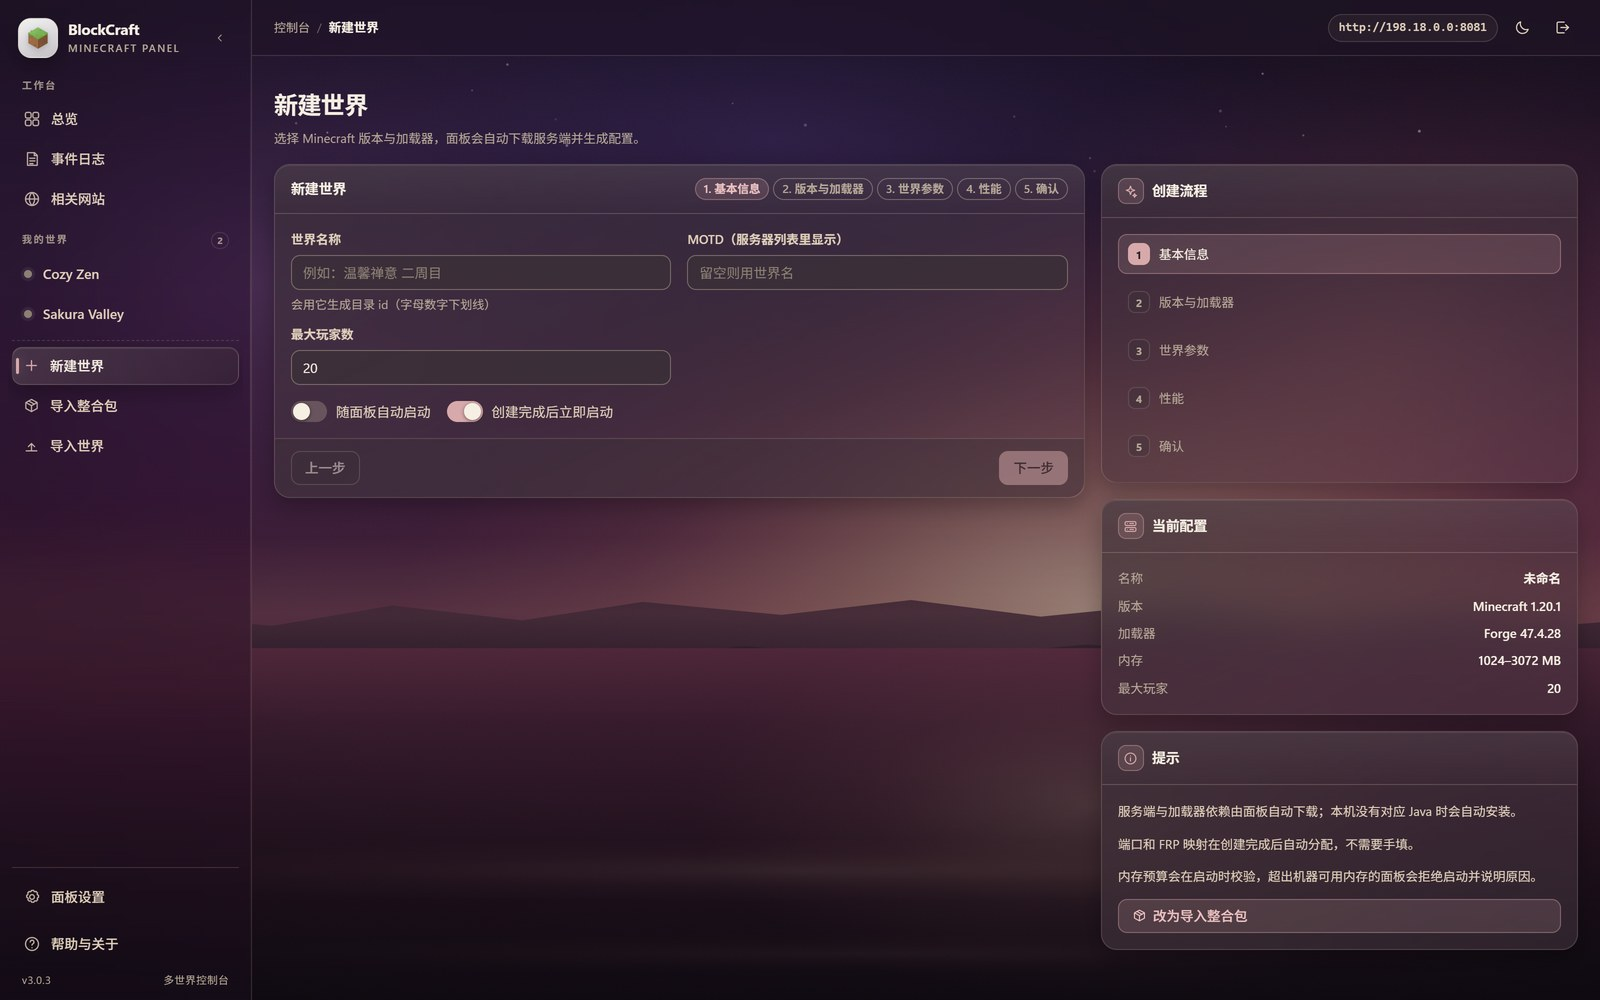
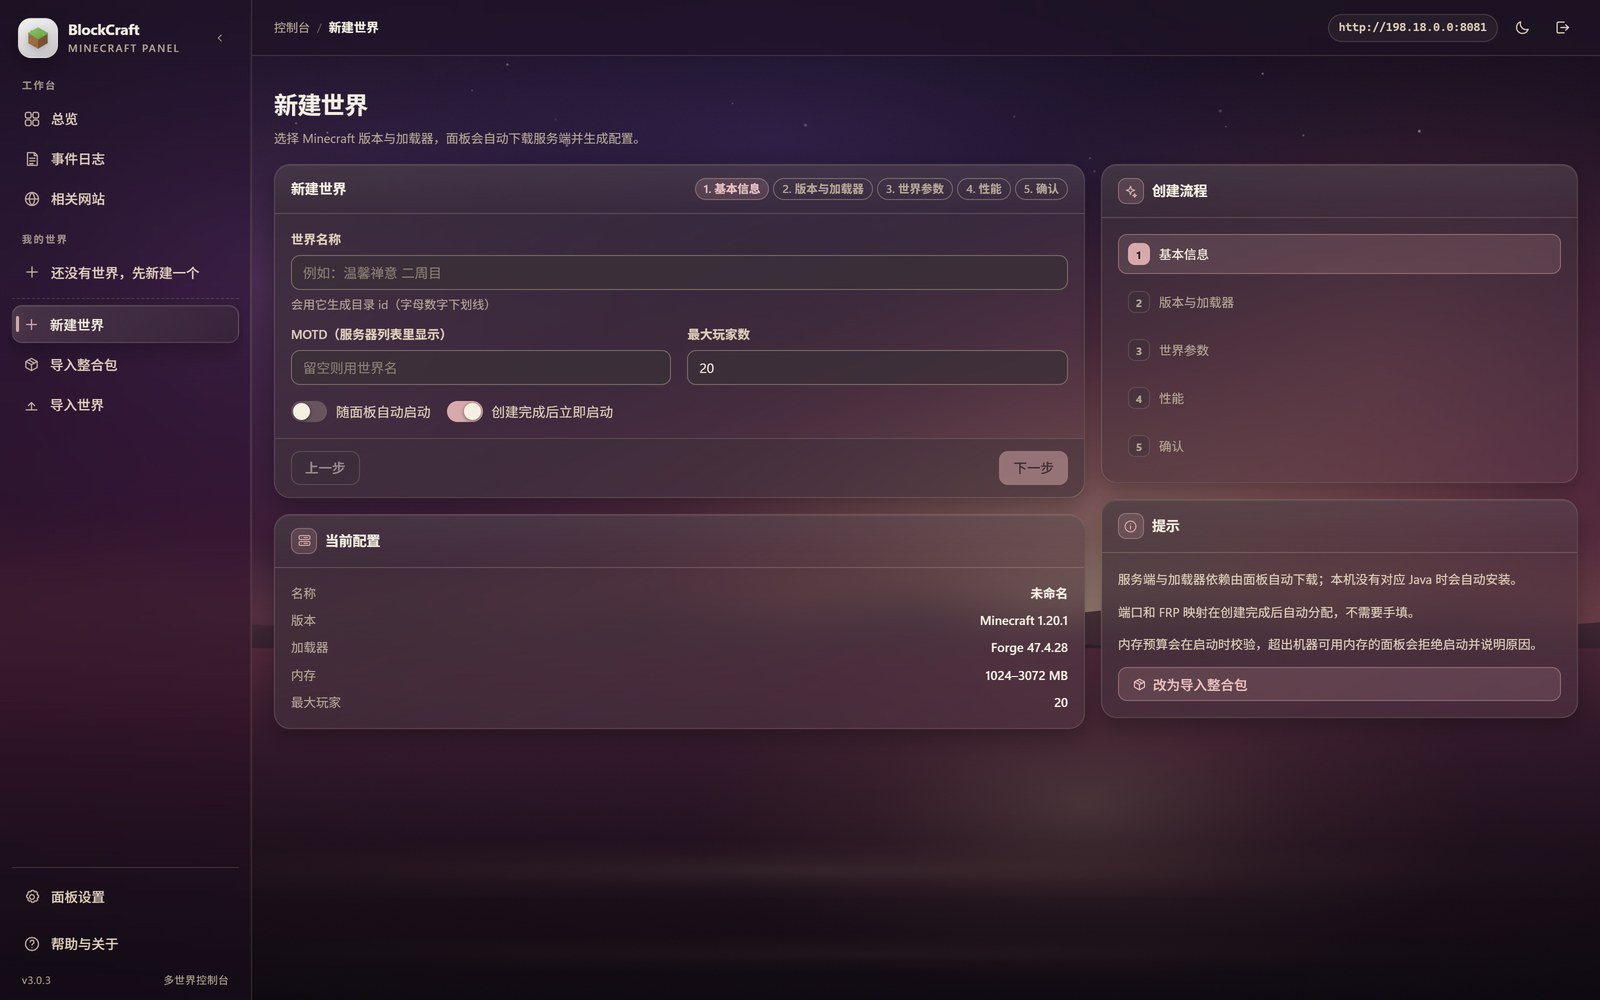
fix(web): balance the new-world wizard layout
- Make the world name span the full form row; pair MOTD and max players below it instead of leaving max players alone.

- Move the 当前配置 summary under the form so the left and right columns end at roughly the same height; the right rail now holds the step guide and tips.

- Refresh the create/import screenshots and changelog.

diff --git a/web/src/pages/Wizard.vue b/web/src/pages/Wizard.vue
@@ -302,7 +302,7 @@ function backgroundJob() {
         <!-- 1 基本 -->
         <template v-if="step === 1">
           <div class="form-grid-2">
-            <div class="field">
+            <div class="field" style="grid-column: 1 / -1">
               <label class="field-label">世界名称</label>
               <input v-model="form.name" class="input" placeholder="例如：温馨禅意 二周目" />
               <span class="field-hint">会用它生成目录 id（字母数字下划线）</span>
@@ -582,6 +582,27 @@ function backgroundJob() {
       </div>
     </div>
 
+        <section class="card wizard-summary-card">
+          <div class="card-head">
+            <h3><span class="head-icon"><Icon name="server" :size="15" /></span>当前配置</h3>
+          </div>
+          <div class="card-body col gap-2">
+            <template v-if="mode === 'new'">
+              <div class="aside-kv"><span>名称</span><strong>{{ form.name || '未命名' }}</strong></div>
+              <div class="aside-kv"><span>版本</span><strong>Minecraft {{ form.mc }}</strong></div>
+              <div class="aside-kv"><span>加载器</span><strong>{{ currentLoader?.label ?? form.loader }} <template v-if="form.loaderVersion">{{ form.loaderVersion }}</template></strong></div>
+              <div class="aside-kv"><span>内存</span><strong>{{ form.minMemoryMb }}–{{ form.memoryMb }} MB</strong></div>
+              <div class="aside-kv"><span>最大玩家</span><strong>{{ form.maxPlayers }}</strong></div>
+            </template>
+            <template v-else>
+              <div class="aside-kv"><span>整合包</span><strong class="mono">{{ importForm.packId || '未选择' }}</strong></div>
+              <div class="aside-kv"><span>名称</span><strong>{{ importForm.name || '未命名' }}</strong></div>
+              <div class="aside-kv"><span>版本</span><strong>{{ importForm.mc || '未识别' }}</strong></div>
+              <div class="aside-kv"><span>加载器</span><strong>{{ importForm.loader }} <template v-if="importForm.loaderVersion">{{ importForm.loaderVersion }}</template></strong></div>
+              <div class="aside-kv"><span>内存</span><strong>{{ importForm.memoryMb }} MB</strong></div>
+            </template>
+          </div>
+        </section>
       </div>
 
       <aside class="wizard-aside col gap-4">
@@ -616,28 +637,6 @@ function backgroundJob() {
                 <span class="aside-step-index">3</span>
                 <span class="grow">开始导入并等待任务</span>
               </div>
-            </template>
-          </div>
-        </section>
-
-        <section class="card aside-card">
-          <div class="card-head">
-            <h3><span class="head-icon"><Icon name="server" :size="15" /></span>当前配置</h3>
-          </div>
-          <div class="card-body col gap-2">
-            <template v-if="mode === 'new'">
-              <div class="aside-kv"><span>名称</span><strong>{{ form.name || '未命名' }}</strong></div>
-              <div class="aside-kv"><span>版本</span><strong>Minecraft {{ form.mc }}</strong></div>
-              <div class="aside-kv"><span>加载器</span><strong>{{ currentLoader?.label ?? form.loader }} <template v-if="form.loaderVersion">{{ form.loaderVersion }}</template></strong></div>
-              <div class="aside-kv"><span>内存</span><strong>{{ form.minMemoryMb }}–{{ form.memoryMb }} MB</strong></div>
-              <div class="aside-kv"><span>最大玩家</span><strong>{{ form.maxPlayers }}</strong></div>
-            </template>
-            <template v-else>
-              <div class="aside-kv"><span>整合包</span><strong class="mono">{{ importForm.packId || '未选择' }}</strong></div>
-              <div class="aside-kv"><span>名称</span><strong>{{ importForm.name || '未命名' }}</strong></div>
-              <div class="aside-kv"><span>版本</span><strong>{{ importForm.mc || '未识别' }}</strong></div>
-              <div class="aside-kv"><span>加载器</span><strong>{{ importForm.loader }} <template v-if="importForm.loaderVersion">{{ importForm.loaderVersion }}</template></strong></div>
-              <div class="aside-kv"><span>内存</span><strong>{{ importForm.memoryMb }} MB</strong></div>
             </template>
           </div>
         </section>

diff --git a/CHANGELOG.md b/CHANGELOG.md
@@ -4,6 +4,7 @@
 
 - 设置新增 Java 下载源：Adoptium 官方、清华 TUNA、南京大学、自定义 Adoptium 镜像；按镜像目录自动选择最新安装包，不可用时回退官方。
 - 设置新增 Minecraft 下载源：Mojang 官方或 BMCLAPI；影响版本清单与原版服务端下载，BMCLAPI 失败时自动换回官方地址。
+- 新建世界第 1 步重新排版：世界名称独占整行，MOTD 与最大玩家数并排；把「当前配置」摘要移到表单下方，让左右两栏在视觉上对齐。
 - 世界详情页重新设计：去掉便签顶部色条和与侧边栏重复的导航按钮，改为「世界概览 + 实时性能 + 连接/世界信息 + 操作」分栏布局。
 - 新增世界级实时性能曲线：CPU 使用率、进程内存（Xmx 参考）、在线玩家，保留最近 120 个采样点，世界未运行时显示引导状态。
 - 新建世界与导入整合包页面改为双栏布局，新增创建流程、当前配置和提示卡片；导入空状态补充支持的格式说明。
